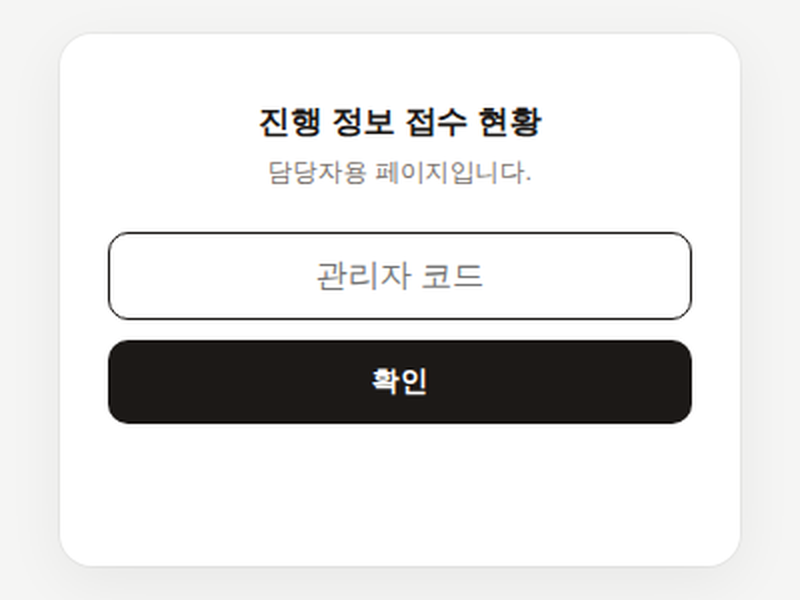
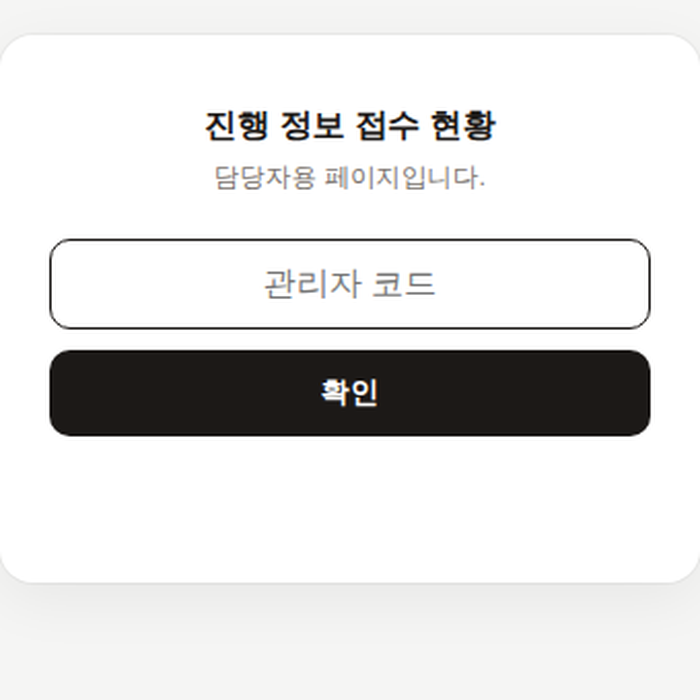
썸네일이 위아래로 잘리던 문제 — 자르지 말고 원본 비율 그대로 넣도록 변경
3×3으로 바꿀 때 썸네일 상자를 4:3 가로형으로 잡았는데, 실제 썸네일 9개 중
5개가 세로형(가로/세로 0.80~0.88)이고 3개가 정사각형에 가까워서 세로로 긴
쪽이 위아래로 잘려 나갔다. 원본 화면의 제목·머리말이 사라져 무슨 도구인지
알아보기 어려워졌다.

상자를 이전 버전과 같은 정사각형으로 되돌리고, 채우기 방식을 cover(넘치는
부분을 자름)에서 contain(자르지 않고 전체를 넣음)으로 바꿨다. 비율이 안 맞는
만큼 좌우에 여백이 생기지만, 잘려서 내용을 못 보는 것보다 낫다는 판단이다.
여백 색을 카드보다 살짝 어두운 회색으로 둬서 여백이 빈 자리가 아니라 액자처럼
보이게 했다.

자르는 위치를 조정하던 클래스(pos-top·pos-bottom·stretch)는 자르지 않게 되면서
쓸 곳이 없어져 함께 제거했다. 관리자 페이지 썸네일도 정사각형으로 다시 잘라
여백을 줄였다.

Claude-Session: https://claude.ai/code/session_0183uTeVaQzcihkQQ9x4WzdS

Changed region(s): [[0.06, 0.15, 0.93, 0.72], [0.09, 0.81, 0.93, 0.84]]

diff --git a/index.html b/index.html
@@ -41,20 +41,21 @@ p.sub{font-size:13px;color:#7d7568;margin:0 0 27px;}
 .card:hover{box-shadow:0 6px 20px rgba(0,0,0,.1);transform:translateY(-2px);}
 
 /* 카드가 3열로 좁아지면서 썸네일을 옆이 아니라 위로 올림 —
-   가로 배치를 유지하면 2열 모바일에서 글자 폭이 남지 않는다 */
+   가로 배치를 유지하면 2열 모바일에서 글자 폭이 남지 않는다.
+   상자는 정사각형으로 둔다 — 썸네일 9개 중 5개가 세로형(가로/세로 0.80~0.88)이고
+   3개가 정사각형에 가까워서, 가로형 상자에 넣으면 세로로 긴 쪽이 잘린다. */
 .thumb{
   width:100%;
-  aspect-ratio:4/3;
+  aspect-ratio:1/1;
   flex:none;
   border-radius:10px;
-  background:linear-gradient(160deg,#efe9df,#e2dbcd);
+  background:#f7f5f1;
   display:flex;align-items:center;justify-content:center;
   overflow:hidden;
 }
-.thumb img{width:100%;height:100%;object-fit:cover;object-position:center;}
-.thumb img.pos-bottom{object-position:bottom;}
-.thumb img.pos-top{object-position:top;}
-.thumb img.stretch{object-fit:fill;}
+/* contain — 이미지를 자르지 않고 원래 비율 그대로 상자 안에 다 넣는다.
+   비율이 안 맞는 만큼 좌우(또는 위아래)에 여백이 생기는데, 잘리는 것보다 낫다는 판단. */
+.thumb img{width:100%;height:100%;object-fit:contain;object-position:center;}
 
 .body{
   min-width:0;
@@ -97,14 +98,14 @@ p.sub{font-size:13px;color:#7d7568;margin:0 0 27px;}
 <p class="sub">내부 제작 도구 모음</p>
 <div class="columns">
     <a class="card" href="https://ccode-vbvi.vercel.app/">
-      <div class="thumb"><img class="stretch" src="assets/thumbs/product-sns-formatter.jpg"/></div>
+      <div class="thumb"><img src="assets/thumbs/product-sns-formatter.jpg"/></div>
       <div class="body">
         <div class="name">상품 원고 작성기</div>
         <div class="desc">상품 정보 텍스트를 회사 SNS 포맷으로 자동 변환 (Claude API)</div>
       </div>
     </a>
     <a class="card" href="https://inbound-image-composer.vercel.app/">
-      <div class="thumb"><img class="pos-top" src="assets/thumbs/inbound-image-composer.jpg"/></div>
+      <div class="thumb"><img src="assets/thumbs/inbound-image-composer.jpg"/></div>
       <div class="body">
         <div class="name">입고안내 이미지 자동 제작</div>
         <div class="desc">입고안내 스크린샷 → 텍스트 정규화 카드 이미지 생성 (Claude Vision)</div>
@@ -126,14 +127,14 @@ p.sub{font-size:13px;color:#7d7568;margin:0 0 27px;}
       </div>
     </a>
     <a class="card" href="megahouse-matome/index.html">
-      <div class="thumb"><img class="pos-bottom" src="assets/thumbs/megahouse-matome.png"/></div>
+      <div class="thumb"><img src="assets/thumbs/megahouse-matome.png"/></div>
       <div class="body">
         <div class="name">메가하우스 마토메 메이커</div>
         <div class="desc">월별 신제품 예고 포스터 이미지를 만드는 도구 (1080×1350px)</div>
       </div>
     </a>
     <a class="card" href="text-gradient/index.html">
-      <div class="thumb"><img class="pos-bottom" src="assets/thumbs/text-gradient.png"/></div>
+      <div class="thumb"><img src="assets/thumbs/text-gradient.png"/></div>
       <div class="body">
         <div class="name">텍스트 투명 이미지 생성기</div>
         <div class="desc">배지·타이틀·불릿 텍스트 + 검정 그라데이션 투명 PNG 제작 (1080×1350)</div>
